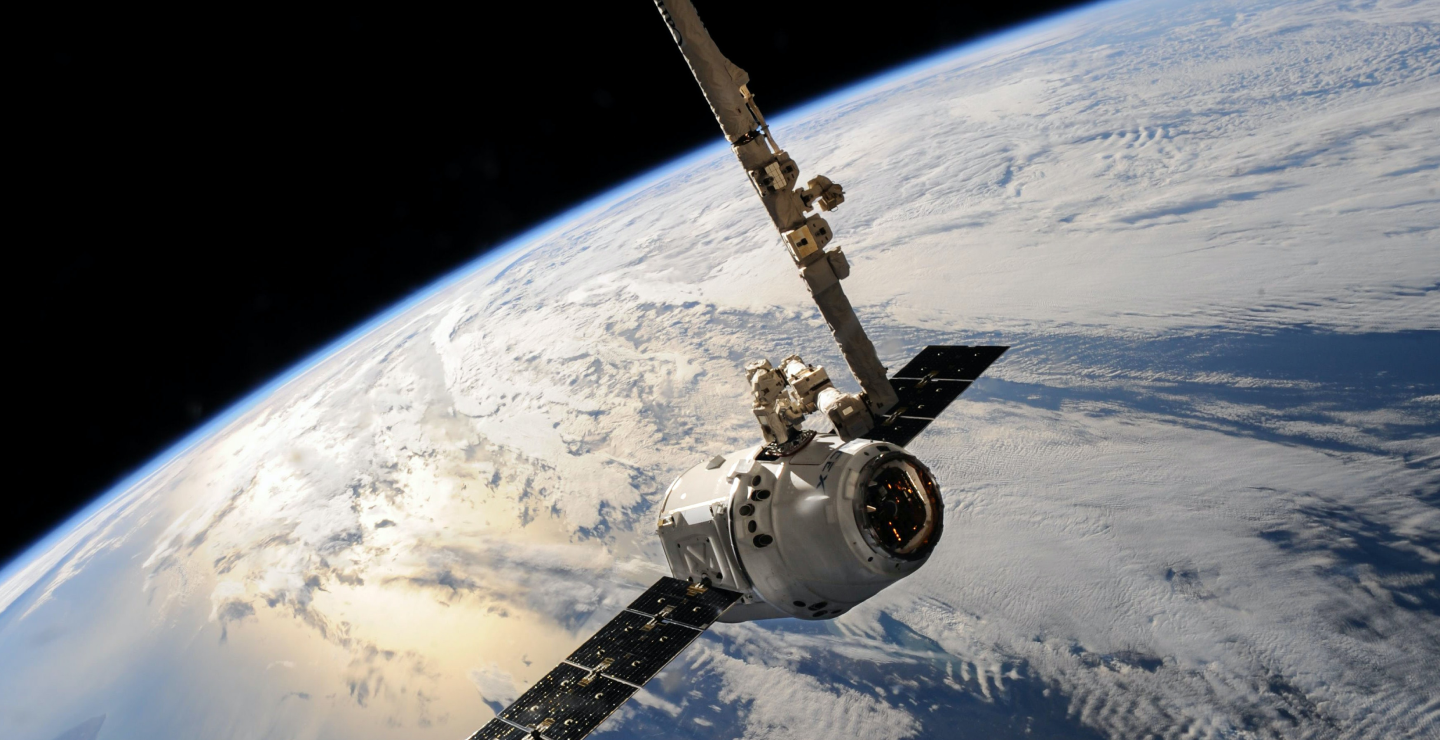
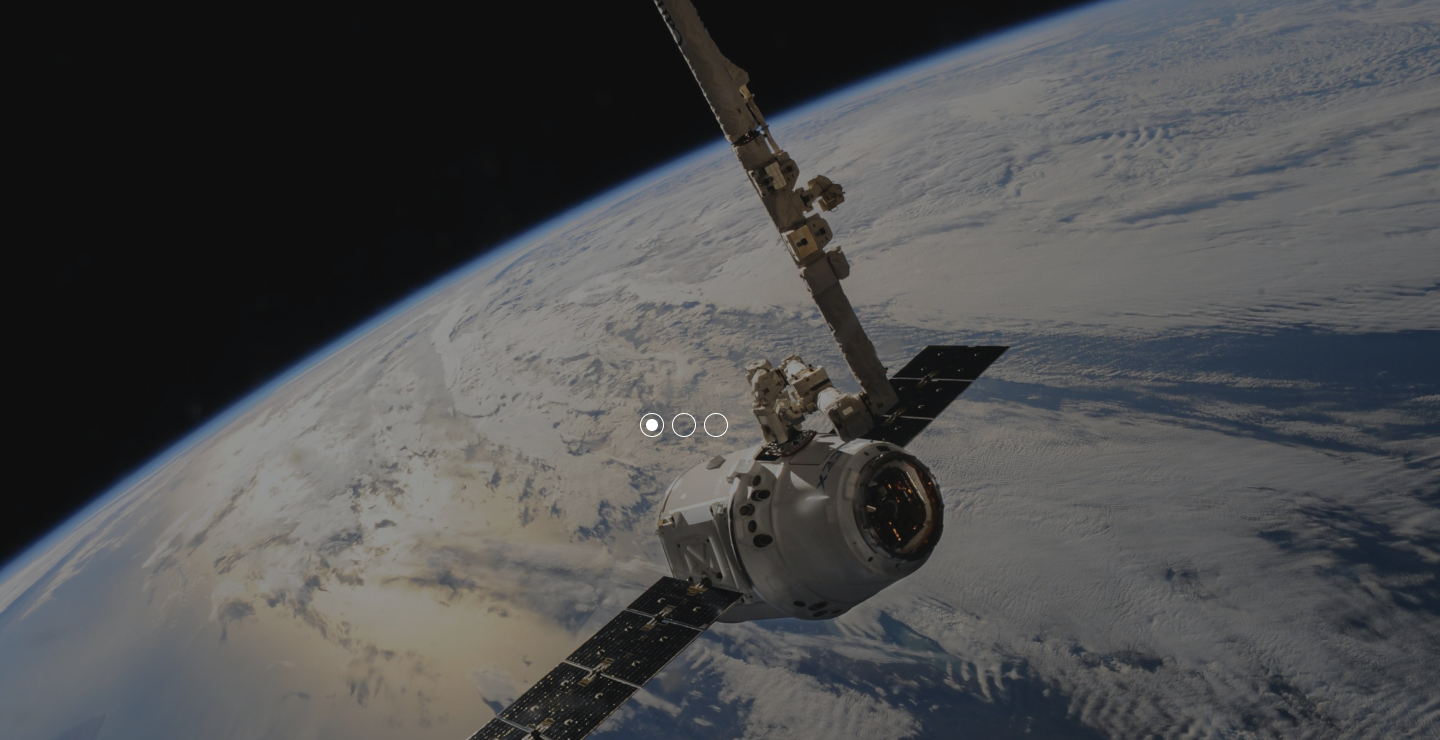
edited Add button

diff --git a/src/components/atoms/NavigationItem/NavigationItem.tsx b/src/components/atoms/NavigationItem/NavigationItem.tsx
@@ -1,66 +1,34 @@
 import React from 'react';
-import styled from 'styled-components';
+import {List, ListItem, LinkItem} from './NavigationItemStyles';
 
 const NavigationItem: React.FC = () => {
   return (
     <List>
-        <ListItem>
-          <LinkItem href="#" className="menu__link">
-            Home
-          </LinkItem>
-        </ListItem>
+      <ListItem>
+        <LinkItem href="#" className="menu__link">
+          Home
+        </LinkItem>
+      </ListItem>
 
-        <ListItem>
-          <LinkItem className="menu__link">
-            Tours
-          </LinkItem>
-        </ListItem>
+      <ListItem>
+        <LinkItem className="menu__link">
+          Tours
+        </LinkItem>
+      </ListItem>
 
-        <ListItem>
-          <LinkItem className="menu__link">
-            About
-          </LinkItem>
-        </ListItem>
+      <ListItem>
+        <LinkItem className="menu__link">
+          About
+        </LinkItem>
+      </ListItem>
 
-        <ListItem>
-          <LinkItem className="menu__link">
-            Help
-          </LinkItem>
-        </ListItem>
-      </List>
+      <ListItem>
+        <LinkItem className="menu__link">
+          Help
+        </LinkItem>
+      </ListItem>
+    </List>
   );
 };
 
 export default NavigationItem;
-
-
-const List = styled.ul`
-  margin: 0;
-  padding: 0;
-  display: flex;
-  list-style: none;
-  text-transform: uppercase;
-`;
-
-const ListItem = styled.li`
-  margin-right: 32px;
-  cursor: pointer;
-`;
-
-const LinkItem = styled.a`
-  text-decoration: none;
-  color: white;
-  position: relative;
-
-  &:hover {
-    &:after {
-      content: '';
-      position: absolute;
-      left: 0;
-      bottom: -5px;
-      width: 100%;
-      border-bottom: 2px solid white;
-      transition: bottom 1s;
-    }
-  }
-`;

diff --git a/src/components/molecules/Tour/Tour.tsx b/src/components/molecules/Tour/Tour.tsx
@@ -1,4 +1,4 @@
-import React from 'react';
+import React, { useState } from 'react';
 import { useDispatch } from 'react-redux';
 import { Tour as TourType } from '../../../types/tourType';
 import { TourContainer, ButtonsContainer, FavButton } from './TourStyles';
@@ -13,17 +13,18 @@ interface TourProps {
 }
 
 const Tour: React.FC<TourProps> = ({ tour, isOnFavoritesPage }) => {
-
   const dispatch = useDispatch();
+  const [isFavorited, setIsFavorited] = useState(false);
 
   const handleFavoriteClick = () => {
     dispatch(addFavorite(tour));
-  }
+    setIsFavorited(true);
+  };
 
   const handleRemoveFromFavoritesClick = () => {
     dispatch(removeFavorite(tour.id));
+    setIsFavorited(false);
   };
-  
 
   return (
     <TourContainer>
@@ -33,10 +34,13 @@ const Tour: React.FC<TourProps> = ({ tour, isOnFavoritesPage }) => {
       <ButtonsContainer>
         <BuyButton />
         {isOnFavoritesPage ? (
-          <FavButton onClick={handleRemoveFromFavoritesClick}><img src={deleteIcon} alt="" /></FavButton>
-        )
-        : (
-          <FavButton onClick={handleFavoriteClick}><img src={blackFavIcon} alt="" /></FavButton>
+          <FavButton onClick={handleRemoveFromFavoritesClick}>
+            <img src={deleteIcon} alt="deleteIcon" />
+          </FavButton>
+        ) : (
+          <FavButton onClick={handleFavoriteClick} isFavorited={isFavorited}>
+            <img src={blackFavIcon} alt="blackFavIcon" />
+          </FavButton>
         )}
       </ButtonsContainer>
     </TourContainer>

diff --git a/src/components/atoms/Titles/Titles.tsx b/src/components/atoms/Titles/Titles.tsx
@@ -1,4 +1,4 @@
-import styled from "styled-components";
+import { HeaderTitle, FavouriteTitle} from './TitlesStyles';
 
 export const HomeTitle: React.FC = () => {
   return (
@@ -14,29 +14,3 @@ export const FavouritesTitle: React.FC = () => {
     <FavouriteTitle>Favourites</FavouriteTitle>
   )
 };
-
-export const HeaderTitle = styled.h1`
-  text-transform: uppercase;
-  text-align: center;
-  color: white;
-
-  h2 {
-    margin: 0;
-    font-weight: 800;
-  }
-
-  h2:first-child {
-    font-size: 48px;
-  }
-
-  h2:last-child {
-    font-size: 310px;
-  }
-`;
-
-export const FavouriteTitle = styled.h1`
-  font-size: 48px;
-  font-weight: 800;
-  margin-top: 120px;
-  text-transform: uppercase;
-`;

diff --git a/src/components/organisms/TourList/TourList.tsx b/src/components/organisms/TourList/TourList.tsx
@@ -34,13 +34,13 @@ const TourList: React.FC<TourListProps> = ({ tours }) => {
       <TourListHeading>Popular Tours</TourListHeading>
       <ButtonsContainer>
       <StyledButton onClick={handlePrevClick} disabled={currentTourIndex === 0}>
-        <StyledArrow src={arrowLeft} alt="" />
+        <StyledArrow src={arrowLeft} alt="arrowLeft" />
       </StyledButton>
       <StyledButton
         onClick={handleNextClick}
         disabled={currentTourIndex === tours.length - toursPerPage}
       >
-        <StyledArrow src={arrowRight} alt="" />
+        <StyledArrow src={arrowRight} alt="arrowRight" />
       </StyledButton>
       </ButtonsContainer>
     </HeaderBlock>

diff --git a/src/components/molecules/Tour/TourStyles.tsx b/src/components/molecules/Tour/TourStyles.tsx
@@ -41,9 +41,7 @@ export const ButtonsContainer = styled.div`
   justify-content: space-around;
 `;
 
-
-
-export const FavButton = styled.button`
+export const FavButton = styled.button<{ isFavorited?: boolean }>`
   width: 53px;
   height: 53px;
   display: flex;
@@ -52,11 +50,11 @@ export const FavButton = styled.button`
   color: white;
   cursor: pointer;
   border: none;
-  background-color: #ECECEC;
+  background-color: ${({ isFavorited }) => (isFavorited ? '#DD377D' : '#ECECEC')};
   transition: background-color 1s;
 
   &:hover {
-    background-color: #DD377D;
+    background-color: ${({ isFavorited }) => (isFavorited ? '#DD377D' : '#DD377D')};
   }
 
   img {

diff --git a/src/components/atoms/NavigationItem/NavigationItemStyles.tsx b/src/components/atoms/NavigationItem/NavigationItemStyles.tsx
@@ -1,0 +1,32 @@
+import styled from "styled-components";
+
+export const List = styled.ul`
+  margin: 0;
+  padding: 0;
+  display: flex;
+  list-style: none;
+  text-transform: uppercase;
+`;
+
+export const ListItem = styled.li`
+  margin-right: 32px;
+  cursor: pointer;
+`;
+
+export const LinkItem = styled.a`
+  text-decoration: none;
+  color: white;
+  position: relative;
+
+  &:hover {
+    &:after {
+      content: '';
+      position: absolute;
+      left: 0;
+      bottom: -5px;
+      width: 100%;
+      border-bottom: 2px solid white;
+      transition: bottom 1s;
+    }
+  }
+`;

diff --git a/src/components/atoms/Titles/TitlesStyles.jsx b/src/components/atoms/Titles/TitlesStyles.jsx
@@ -1,0 +1,29 @@
+import styled from "styled-components";
+
+export const HeaderTitle = styled.h1`
+  margin-top: 110px;
+  margin-right: 20px;
+  text-transform: uppercase;
+  text-align: center;
+  color: white;
+
+  h2 {
+    margin: 0;
+    font-weight: 800;
+  }
+
+  h2:first-child {
+    font-size: 48px;
+  }
+
+  h2:last-child {
+    font-size: 310px;
+  }
+`;
+
+export const FavouriteTitle = styled.h1`
+  font-size: 48px;
+  font-weight: 800;
+  margin-top: 120px;
+  text-transform: uppercase;
+`;

diff --git a/src/components/atoms/Logo/Logo.tsx b/src/components/atoms/Logo/Logo.tsx
@@ -1,7 +1,7 @@
 import React from 'react';
 import { Link } from 'react-router-dom';
 import logo from '../../../assets/logo.png';
-import styled from 'styled-components';
+import { LogoStyle } from './LogoStyles';
 
 const Logo: React.FC = () => {
   return (
@@ -12,8 +12,3 @@ const Logo: React.FC = () => {
 };
 
 export default Logo;
-
-const LogoStyle = styled.img`
-  height: 42px;
-  width: 230px;
-`;

diff --git a/src/components/organisms/FavTours/FavTours.tsx b/src/components/organisms/FavTours/FavTours.tsx
@@ -16,7 +16,6 @@ const FavTours: React.FC = () => {
   return (
     <Container>
       <ClearAllText onClick={handleRemoveAllFavorites}>Clear all</ClearAllText>
-  
       <TourContainer>
         {favorites.map((tour: TourType) => (
           <Tour
@@ -28,5 +27,6 @@ const FavTours: React.FC = () => {
       </TourContainer>
     </Container>
   );
-        }  
+};
+
 export default FavTours;

diff --git a/src/components/atoms/Buttons/Buttons.tsx b/src/components/atoms/Buttons/Buttons.tsx
@@ -13,7 +13,8 @@ export const FavoriteButton: React.FC = () => {
     if (location.pathname === '/favorites') {
       setHeartImage(favIcon);
       setBackground('#DD377D');
-    } else {
+    }
+    else {
       setHeartImage(blackFavIcon);
       setBackground('#ECECEC');
     }

diff --git a/src/components/organisms/Header/HeaderStyles.tsx b/src/components/organisms/Header/HeaderStyles.tsx
@@ -3,7 +3,6 @@ import tour1 from '../../../assets/banners/tour1.png';
 import tour2 from '../../../assets/banners/tour2.png';
 import tour3 from '../../../assets/banners/tour3.png';
 
-
 const changeBackground = keyframes`
   0% {
     background-image: url(${tour1});

diff --git a/src/components/organisms/Header/Header.tsx b/src/components/organisms/Header/Header.tsx
@@ -19,7 +19,6 @@ const Header: React.FC = () => {
         <HomeTitle />
         <ExploreLink onClick={handleExploreClick}>Explore tours <img src={down} alt="" /></ExploreLink>
       </HeaderContainer>
-
     </>
   );
 };
